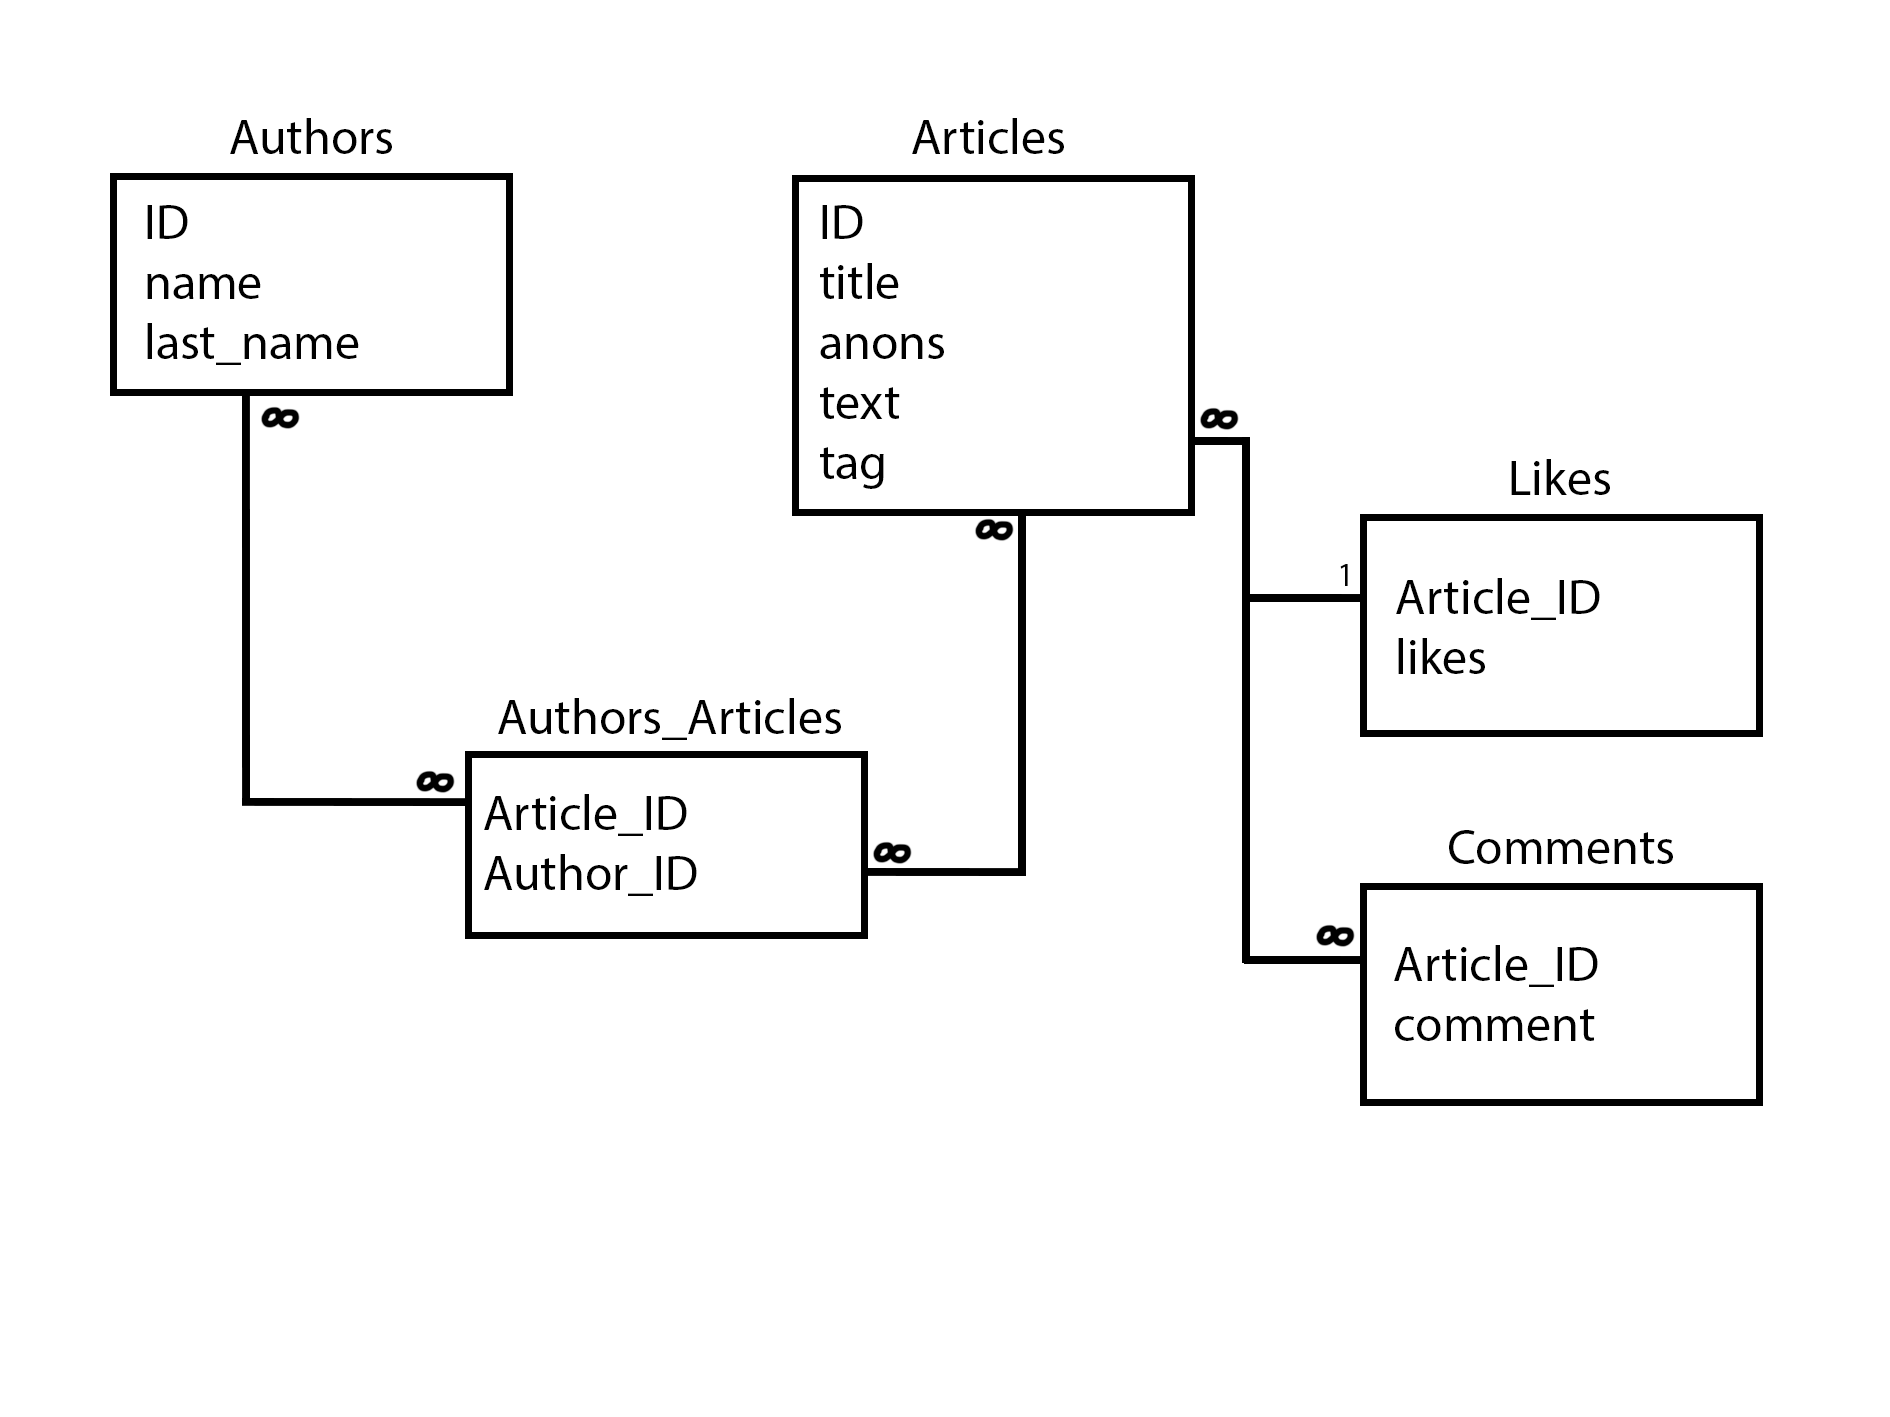
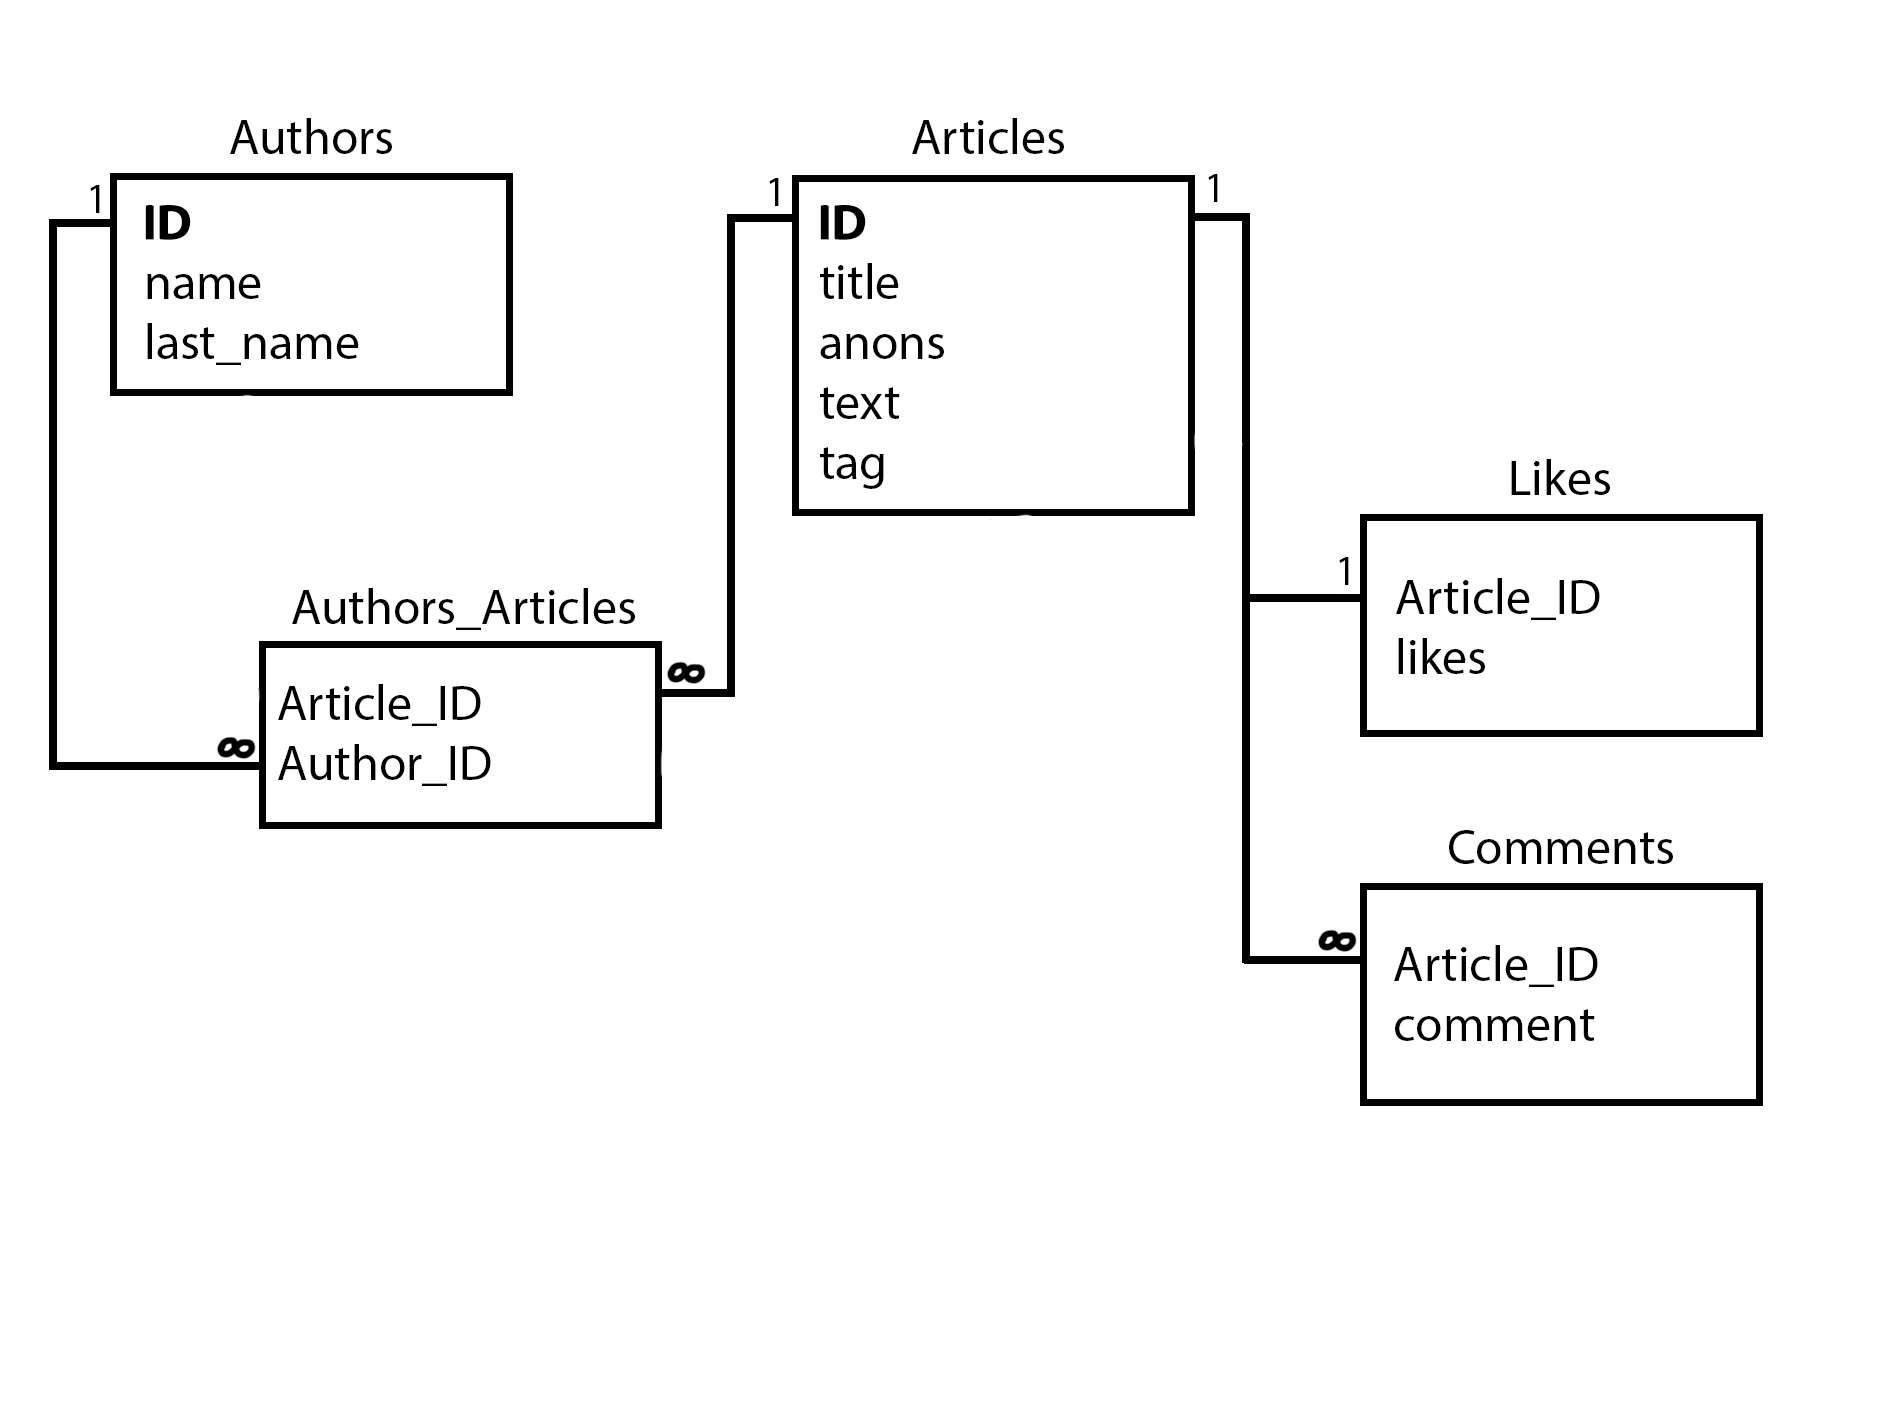
Изменения во 2 задаче, исправленны связи таблиц

diff --git a/index.php b/index.php
@@ -48,19 +48,16 @@ function generateAnons($text, $link_path){
 
 
  CREATE TABLE Authors_Articles (Article_ID INT,
-                                Author_ID INT,
-                                FOREIGN KEY (Article_ID) REFERENCES Articles(ID),
-                                FOREIGN KEY (Author_ID) REFERENCES Authors(ID));
+                                Author_ID INT);
 
 
  CREATE TABLE Likes (Article_ID INT,
-                     likes INT,
+                     likes INT
                      FOREIGN KEY (Article_ID) REFERENCES Articles(ID));
 
 
  CREATE TABLE Comments (Article_ID INT,
-                        comment VARCHAR NOT NULL,
-                        FOREIGN KEY (Article_ID) REFERENCES Articles(ID));
+                        comment VARCHAR NOT NULL);
 */
 
 // Наполнение
